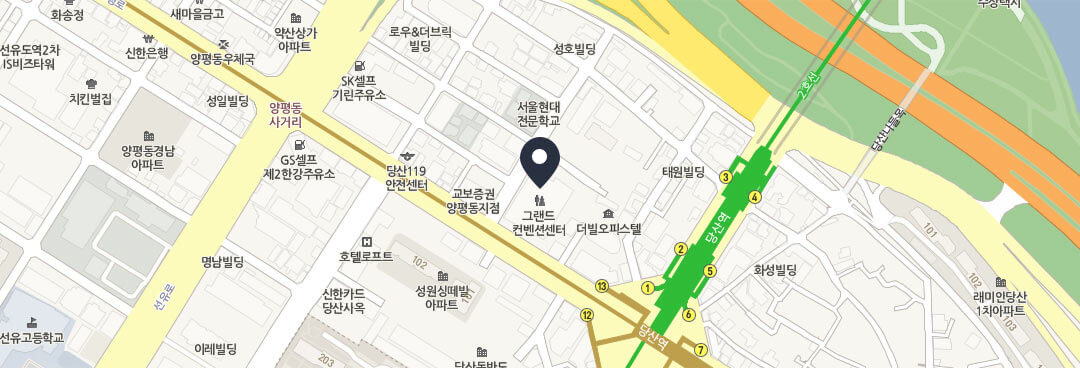
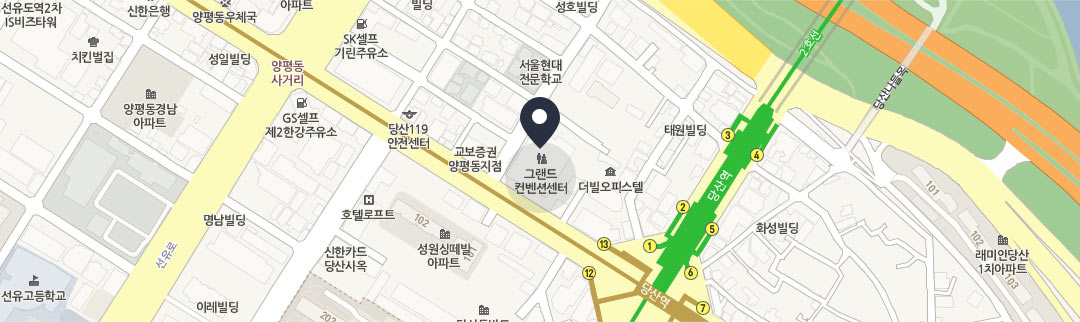
fix map position

diff --git a/index.html b/index.html
@@ -56,13 +56,14 @@
     }
     .p4 img {
       width: 72.5%;
+      transform: translateX(-50%) translateY(-51.5%);
     }
     .map {
       position: absolute;
       top: 0;
       left: 0;
       width: 100%;
-      height: 46.6145%;
+      height: 41.0507%;
     }
     .map img {
       position: absolute;

diff --git a/swiper.min.css b/swiper.min.css
@@ -119,7 +119,7 @@ body {
   background: #999;
 }
 .swiper-container-vertical > .swiper-pagination-bullets {
-  right: 5px;
+  right: 2.1%;
   top: 50%;
 }
 .swiper-container-vertical > .swiper-pagination-bullets .swiper-pagination-bullet {
